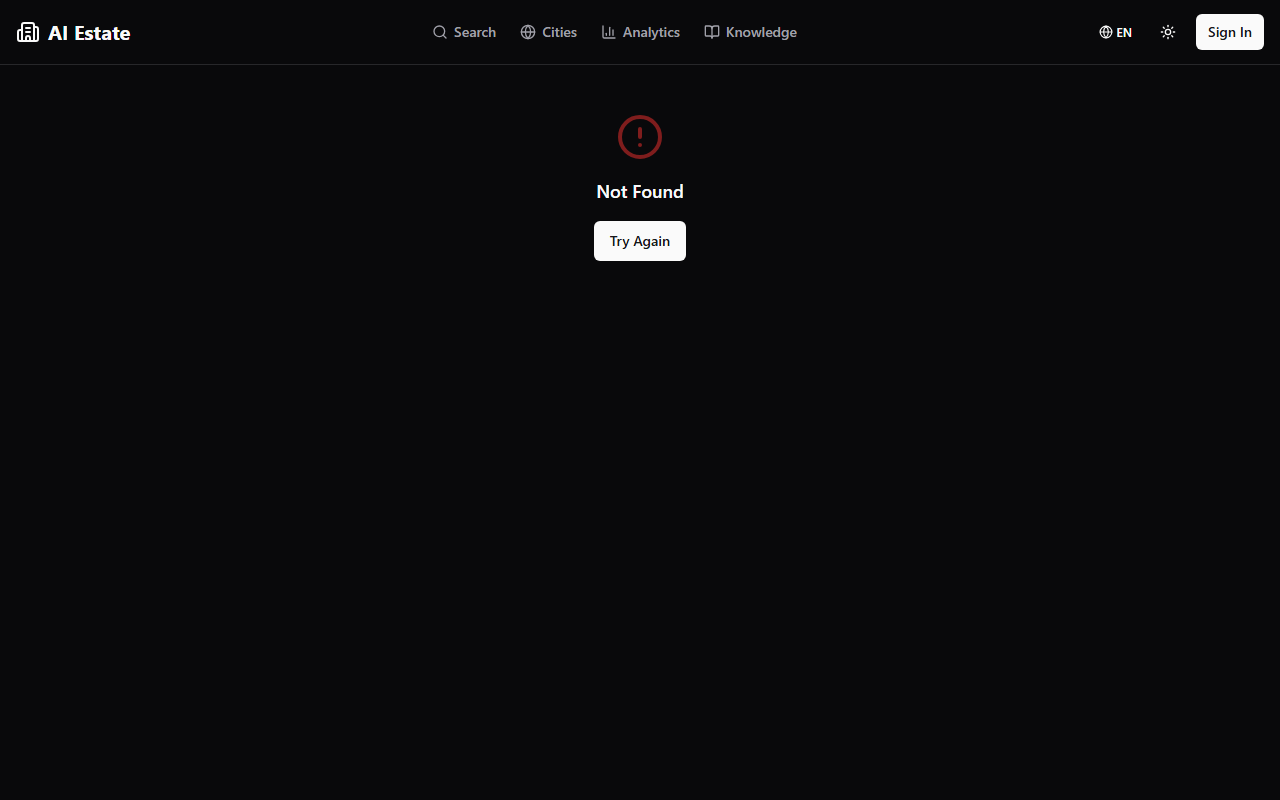
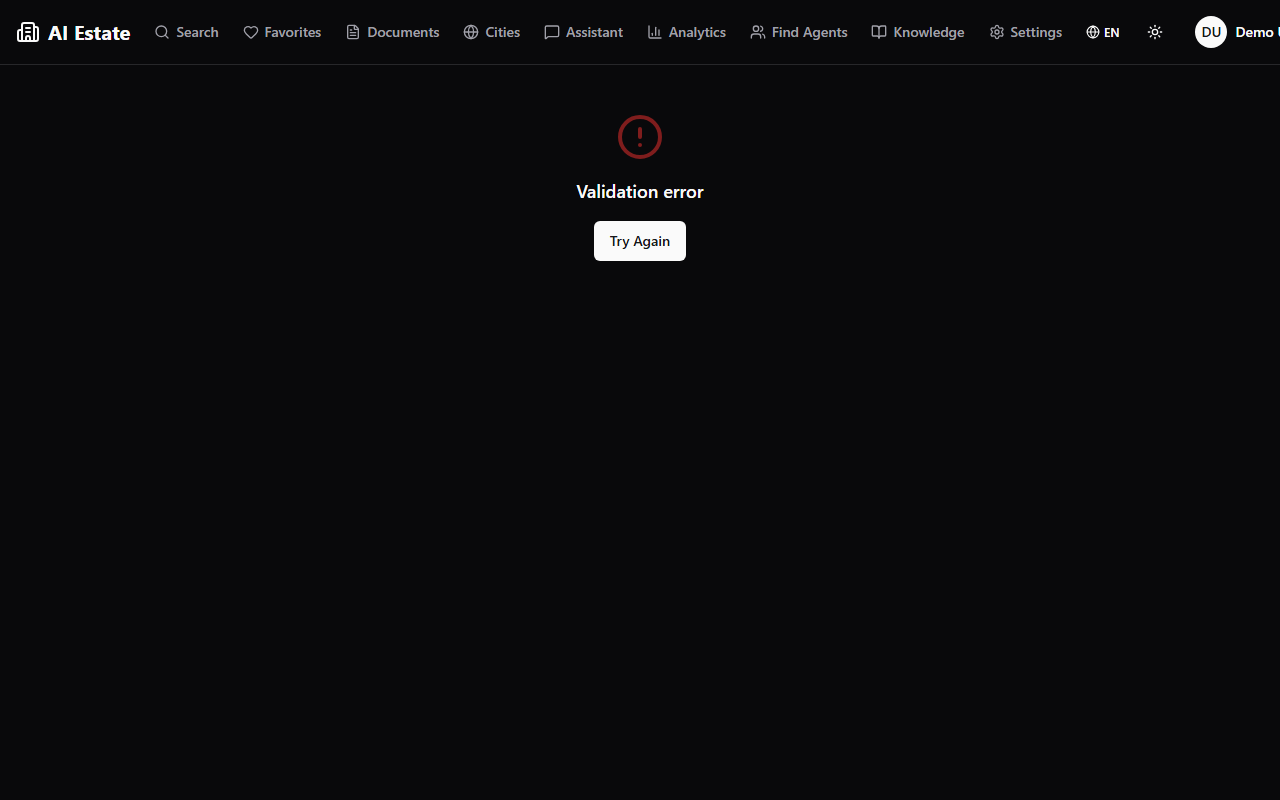
fix(api): register agents router outside JWT block + clean screenshots
Three related fixes to make the demo + README landing grid show real
working content (no errors, no red Not-Found banners, no empty 'no
data' states, no broken Turbopack overlays).

apps/api/api/main.py:
- Move 'app.include_router(agents.router, prefix="/api/v1")' from
  inside the 'if settings.auth_jwt_enabled:' block to line 503
  (alongside the always-registered search/chat/rag routers).
- Root cause: when JWT auth is disabled (the default in the deployed
  image), the agents router was never registered -> /api/v1/agents
  returned 404 -> the agents page UI showed a red 'Not Found' error
  banner + 'No agents found' empty state. Affects docs/screenshots/agents*.png
  and assets/screenshots/agents-dark.png.
- 'list_agents' inside the router is already a public endpoint (no
  user dependency, only optional API key). Other agents routes that
  require auth still have their Depends(get_current_active_user) inside
  the router.
- The duplicate 'app.include_router(agents.router, ...)' inside the
  JWT block has been removed to avoid double-registration.

docs/screenshots/*.png (20 files) and assets/screenshots/*-dark.png (5):
- Regenerate against the running demo (NEXT_PUBLIC_DEMO_MODE=true,
  full demo data: 50 users, 250 properties, 10 agents, 200 favorites,
  etc.) using the fixed scripts/utils/take_screenshots.js and
  scripts/utils/regen_dark_placeholders.js.
- Final state per file:
  * agents.png: 10 agents, 3 cards visible (agent.4/3/6 with ratings,
[…]

Changed region(s): [[0.125, 0.0, 1.0, 0.0625], [0.4375, 0.2188, 0.5625, 0.25]]

diff --git a/scripts/utils/regen_dark_placeholders.js b/scripts/utils/regen_dark_placeholders.js
@@ -1,0 +1,69 @@
+// Regenerate the 5 byte-identical dark-theme placeholder files in
+// assets/screenshots/ (md5 159c54ac...) by capturing them with the
+// running Docker demo (NEXT_PUBLIC_DEMO_MODE=true). Reads from the
+// SCREENSHOTS array used by take_screenshots.js but writes to
+// assets/screenshots/ with the same names.
+const { chromium } = require("playwright");
+const path = require("path");
+const fs = require("fs");
+
+const BASE = process.argv[2] || "http://localhost:3082";
+const OUT_DIR = path.join(__dirname, "..", "..", "assets", "screenshots");
+
+// The 5 placeholder routes (same routes as their light counterparts
+// in docs/screenshots/, but with -dark suffix in the filename).
+const SCREENSHOTS = [
+  { name: "agents-dark", path: "/en/agents" },
+  { name: "city-overview-dark", path: "/en/city-overview" },
+  { name: "documents-dark", path: "/en/documents" },
+  { name: "favorites-dark", path: "/en/favorites" },
+  { name: "settings-dark", path: "/en/settings" },
+];
+
+async function main() {
+  fs.mkdirSync(OUT_DIR, { recursive: true });
+  const browser = await chromium.launch({ headless: true });
+  const context = await browser.newContext({
+    viewport: { width: 1280, height: 800 },
+    locale: "en-US",
+    colorScheme: "dark",
+  });
+  // Apply dark theme before any page renders
+  await context.addInitScript(() => {
+    localStorage.setItem("theme", "dark");
+    document.documentElement.classList.add("dark");
+  });
+  const page = await context.newPage();
+
+  for (const shot of SCREENSHOTS) {
+    const url = `${BASE}${shot.path}`;
+    console.log(`Capturing ${shot.name}...`);
+    try {
+      await page.goto(url, { waitUntil: "load", timeout: 30000 });
+      // City-overview fires 5+ parallel search queries; give them time.
+      const wait = shot.name === "city-overview-dark" ? 12000 : 5000;
+      await page.waitForTimeout(wait);
+
+      const btn = page.locator("button:has-text('Accept'), button:has-text('Close')");
+      try {
+        if (await btn.isVisible({ timeout: 1000 })) await btn.click();
+      } catch {}
+
+      const outPath = path.join(OUT_DIR, `${shot.name}.png`);
+      await page.screenshot({ path: outPath, fullPage: false });
+      const size = fs.statSync(outPath).size;
+      console.log(`  Saved: ${outPath} (${(size / 1024).toFixed(1)} KB)`);
+    } catch (err) {
+      console.error(`  Failed: ${err.message}`);
+    }
+  }
+
+  await context.close();
+  await browser.close();
+  console.log("\nDone! Dark-theme placeholders regenerated.");
+}
+
+main().catch((err) => {
+  console.error("Fatal:", err);
+  process.exit(1);
+});

diff --git a/apps/api/api/main.py b/apps/api/api/main.py
@@ -500,6 +500,12 @@ app.add_middleware(
 # Include Routers
 app.include_router(search.router, prefix="/api/v1", dependencies=[Depends(get_optional_api_key)])
 app.include_router(chat.router, prefix="/api/v1", dependencies=[Depends(get_api_key)])
+# Task #45: Agent/Broker Integration (public list_agents; moved outside
+# the JWT block so /api/v1/agents is always reachable for the demo and
+# the README landing grid -- see agents/page.tsx getAgents() which hits
+# this endpoint. Other agents.py routes still require a session via
+# get_current_active_user inside the router itself.)
+app.include_router(agents.router, prefix="/api/v1")
 # Task #89: Free tier chat (no API key required, rate-limited)
 app.include_router(chat.free_router, prefix="/api/v1")
 app.include_router(rag_router.router, prefix="/api/v1", dependencies=[Depends(get_api_key)])
@@ -541,8 +547,8 @@ if settings.auth_jwt_enabled:
     app.include_router(agent_analytics.router, prefix="/api/v1")
     # Task #63: Push Notifications
     app.include_router(push.router, prefix="/api/v1")
-    # Task #45: Agent/Broker Integration
-    app.include_router(agents.router, prefix="/api/v1")
+    # Task #45: Agent/Broker Integration (moved outside the JWT block --
+    # see line ~503 for the public list_agents route registration.)
     # Task #43: Document Management System
     app.include_router(documents.router, prefix="/api/v1")
     # Task #57: E-Signature Integration

diff --git a/README.md b/README.md
@@ -130,12 +130,16 @@ To override the gate (e.g. force lazy loading on a different platform), set `REN
 
 ### What it looks like
 
-| Search & Discovery | Conversational Chat | AI Agents |
+| Landing | AI Assistant | AI Agents |
 |---|---|---|
-| ![Search](docs/screenshots/search.png) | ![Chat](docs/screenshots/chat.png) | ![Agents](docs/screenshots/agents.png) |
-| ![Analytics](docs/screenshots/analytics.png) | ![City Overview](docs/screenshots/city-overview.png) | ![Search Results](docs/screenshots/search-results.png) |
+| ![Home](assets/screenshots/home-dark.png) | ![Chat](docs/screenshots/chat.png) | ![Agents](docs/screenshots/agents.png) |
+| Analytics | Knowledge & RAG | Property Search |
+| ![Analytics](docs/screenshots/analytics.png) | ![Knowledge](assets/screenshots/knowledge-dark.png) | ![Search Results](docs/screenshots/search-results.png) |
 
-*Light-theme captures. Mobile and dark-theme variants live in `docs/screenshots/` and `assets/screenshots/`.*
+*Mixed light + dark captures (desktop only, no mobile). Empty welcome screen on
+Assistant is intentional — the chat populates as soon as the user sends a
+message. The working source captures live in `docs/screenshots/` (light) and
+`assets/screenshots/` (dark).*
 
 ## ✨ Features
 
